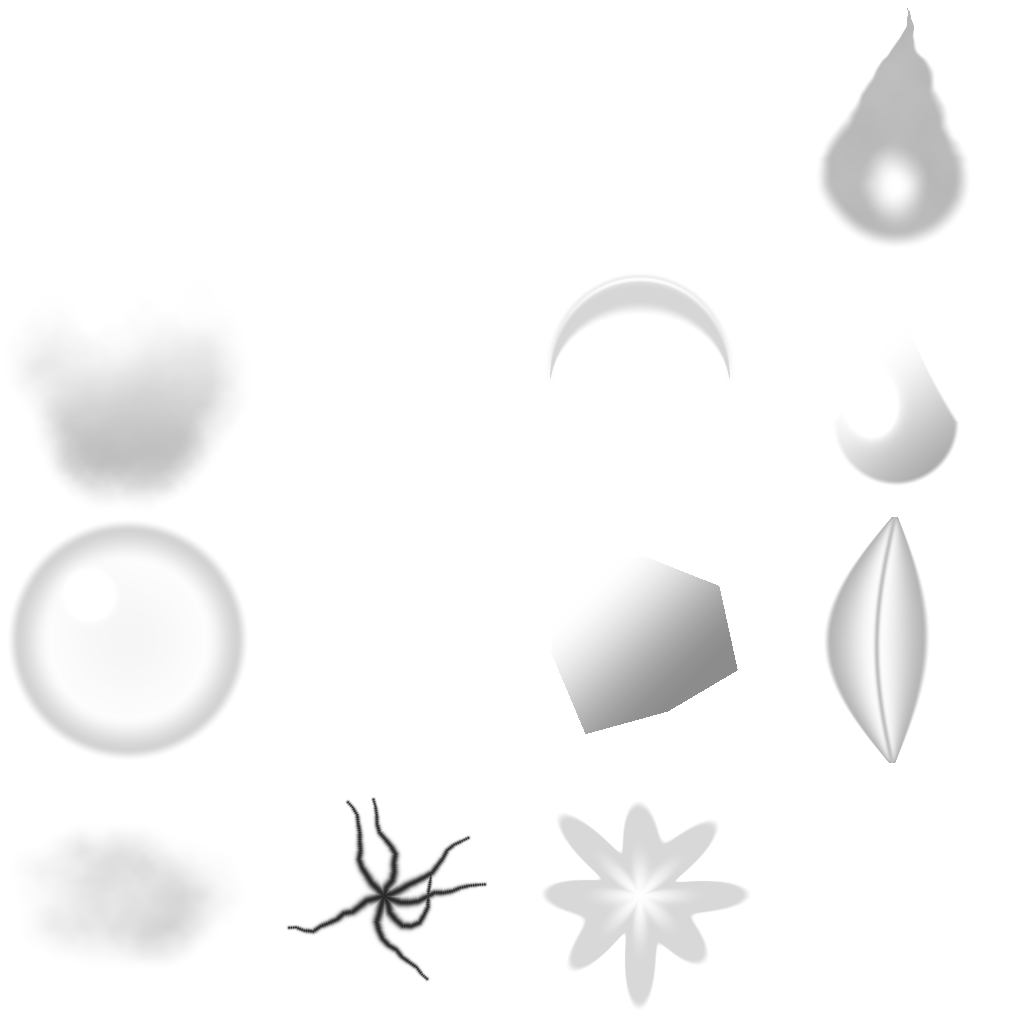
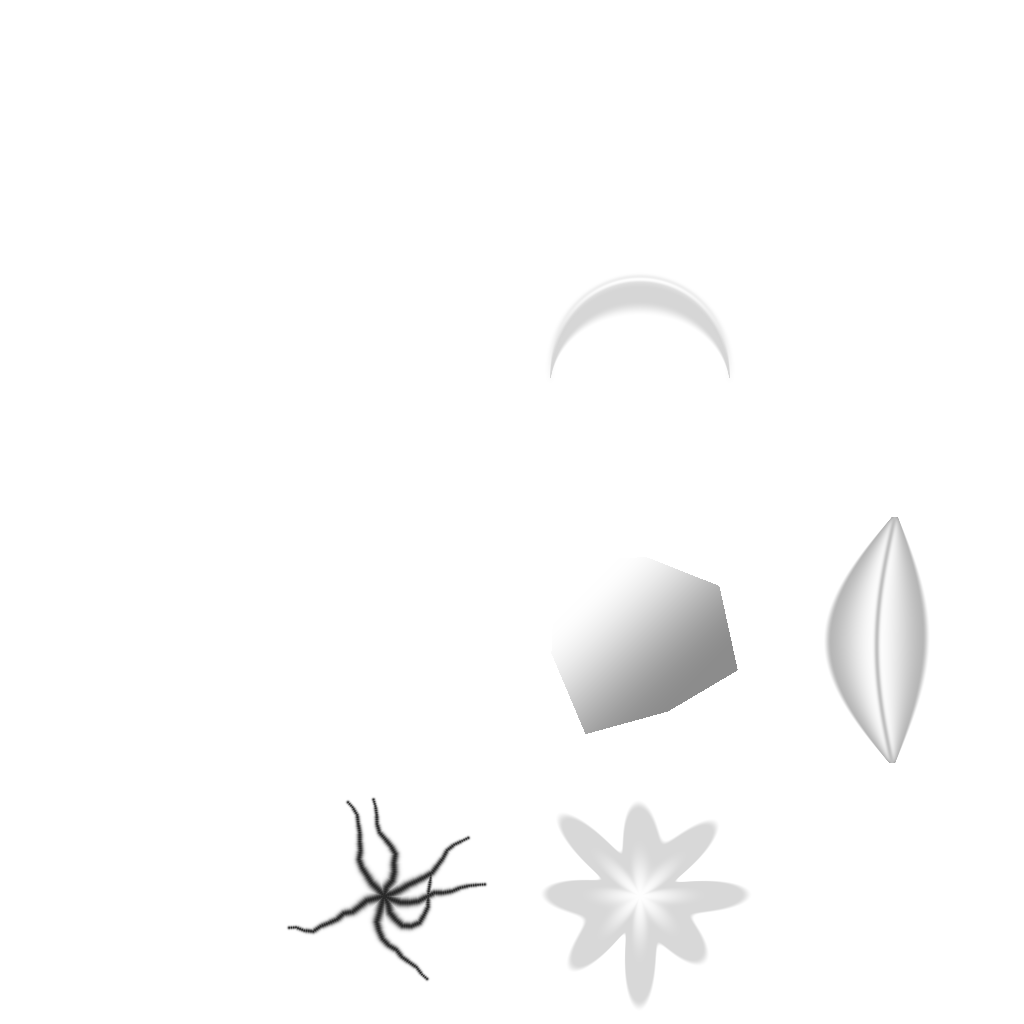
Rickard's own Gemini textures in the effects: new star, flame, smoke, drop, bubble and dust cells in the effect atlas, and his hex picture for Moa's honeycomb shield
Claude-Session: https://claude.ai/code/session_01M7eBmsdbX5dujjbvcNASSn

diff --git a/Assets/BAM/Art/StatusFx.cs b/Assets/BAM/Art/StatusFx.cs
@@ -132,7 +132,7 @@ namespace BAM.Art
                     var d = new Vector3(Mathf.Cos(e) * Mathf.Cos(a), Mathf.Sin(e), Mathf.Cos(e) * Mathf.Sin(a));
                     int k = j * (Lon + 1) + i;
                     v[k] = d; n[k] = d;
-                    uv[k] = new Vector2(i * 6f / Lon, j * 3.4f / Lat); // about square cells round the middle
+                    uv[k] = new Vector2(i * 4f / Lon, j * 2.3f / Lat); // Rickard's picture holds ~6 cells across; about square round the middle
                 }
             var tri = new int[Lon * Lat * 6];
             int q = 0;

diff --git a/Docs/LICENSES.md b/Docs/LICENSES.md
@@ -49,8 +49,8 @@ Source: graphics thread hand-over 2 (`bam-work/art/HANDOVER-2.md`), byte-identic
 | `Resources/BAMArt/Props/wallkit_{pillar,straight}.{bytes,jpg}` (4) | Arena wall kit (pillar and straight wall) | Rickard's own Meshy models from his concept art (art/blackbruk), 2026-10-15; old register `LICENSES/assets.csv` rows 65-70; byte copies of the old `AbcModels` files | Rickard via Meshy | Made on Rickard's paid Meshy plan (Rickard 2026-10-25: his Meshy models were made on a paid plan), so customer-owned, no credit required. | Courtesy only |
 | `Resources/BAMArt/Fx/tx_fx_{flash_burst,glow_soft,ground_crack,ground_swirl,light_pillar,particles,shards_burst,shockwave,streak,telegraph_ring}.png`, `tx_fx_nova.png` (11) | Effect pictures for attacks and specials (flash and shockwave flipbooks, glow, sparks, ground crack and swirl, light pillar, rays, nova ring) | Rickard's own effect textures from his Speltest project (`ABC2/Resources/AbcVisuals/Tex/`, 2026-10-25; `tx_fx_nova.png` is his `tx_wow_mage_nova2.png`), copied 2026-10-26 at his request ("ta dom texturerna jag gjort som är för attacker och specials") | Rickard | Rickard's own work; he holds the rights. | Not required |
 | `Resources/BAMArt/Fx/tx_fx_slash_arc.png` (1) | The melee sword swing (half-moon slash) | Rickard's own picture made with Google Gemini, 2026-10-26 (original `bam-work/art/fx/tx_fx_slash_arc_original.png`); cut to a half-moon and resized to 512 by us | Rickard (Gemini) | Rickard's own; Gemini output, commercial use allowed | None |
-| `Resources/BAMArt/Fx/T_BAM_FxAtlas.png` (1) | 16 white effect sprites (glow, star, streak, flame, smoke, shockwave, slash, drop, bubble, wisp, chunk, leaf, dust, crack, burst, dot), used where Rickard's pictures have no match | Painted by code for this project, offline (`bam-work/art/fx/make_atlas.py`, 2026-10-26) | Us (Claude for Rickard) | Ours. | Not required |
-| `Resources/BAMArt/Fx/T_BAM_HexShield.png` (1) | Tileable honeycomb for Moa's shield globe | Painted by code for this project, offline (`bam-work/art/fx/make_hex.py`, 2026-10-26) | Us (Claude for Rickard) | Ours. | Not required |
+| `Resources/BAMArt/Fx/T_BAM_FxAtlas.png` (1) | 16 white effect sprites (glow, star, streak, flame, smoke, shockwave, slash, drop, bubble, wisp, chunk, leaf, dust, crack, burst, dot), used where Rickard's pictures have no match. Cells star, flame, smoke, drop, bubble and dust are Rickard's own Gemini pictures (2026-10-26, originals in `bam-work/art/fx/rickard-gemini/`) | Painted by code (`bam-work/art/fx/make_atlas.py`) plus Rickard's Gemini cells (`patch_atlas_rickard.py`), 2026-10-26 | Us and Rickard (Google Gemini) | Ours. | Not required |
+| `Resources/BAMArt/Fx/T_BAM_HexShield.png` (1) | Tileable honeycomb for the shield globe | Rickard's own Gemini picture (2026-10-26), luminance turned to alpha by `patch_atlas_rickard.py` | Rickard (Google Gemini) | Rickard's own. | Not required |
 | `Resources/BAMArt/Props/bam_boundary_wall.{bytes,jpg}` (2) | The low wall round the arena's edge | Rickard's own Meshy models from his concept art (art/blackbruk), 2026-10-15; old register `LICENSES/assets.csv` rows 2-7; copied from Rickard's Speltest project (pixel and mesh identical to the old repo's `AbcModels` files); `bam_boundary_wall.bytes` (1,399 to 300) simplified by us for phones (2026-10-25, originals kept in `bam-work/art/props`); the Meshy bush (rows 2-4 of the old register) is no longer shipped: the arena uses the old game's code-built leaves, and its files moved to `bam-work/art/props/unused` (2026-10-25) | Rickard via Meshy | Made on Rickard's paid Meshy plan (Rickard 2026-10-25: his Meshy models were made on a paid plan), so customer-owned, no credit required. | Courtesy only |
 | `Resources/BAMArt/Props/{fenn_sword,fenn_shield,bram_hammer_new,knut_anchor,moa_staff,moa_shield,blast_bomb,tikta_wing}.{bytes,jpg}` (16) | The heroes' held weapons and shields (Fenn sword and shield, Bram hammer, Knut anchor, Moa staff and crest, Blast skull bomb, Tikta Needle Wing) | Rickard's own Meshy/Tripo models, 2026-10-16 to 10-24 (old game `Resources/AbcModels`); the `.bytes` are the old game's own lighter `_lo` copies, the pictures scaled down to 512x512 by us for phones (2026-10-26) | Rickard via Meshy/Tripo | Made on Rickard's paid Meshy/Tripo plans (Rickard 2026-10-25), so customer-owned, no credit required. | Courtesy only |
 | `Resources/BAMArt/Props/tyra_bow.{bytes,png}` (2) | Tyra's ornate bow in her left hand | Old game `HeroModels/fig_ornateBow_{mesh.bytes,tex.png}`, converted unchanged to the Props format (`bam-work/art/props/fig_to_prop.py`) | Rickard (Tripo AI, paid plan), 2026-10-24 | Rickard's own | None |
